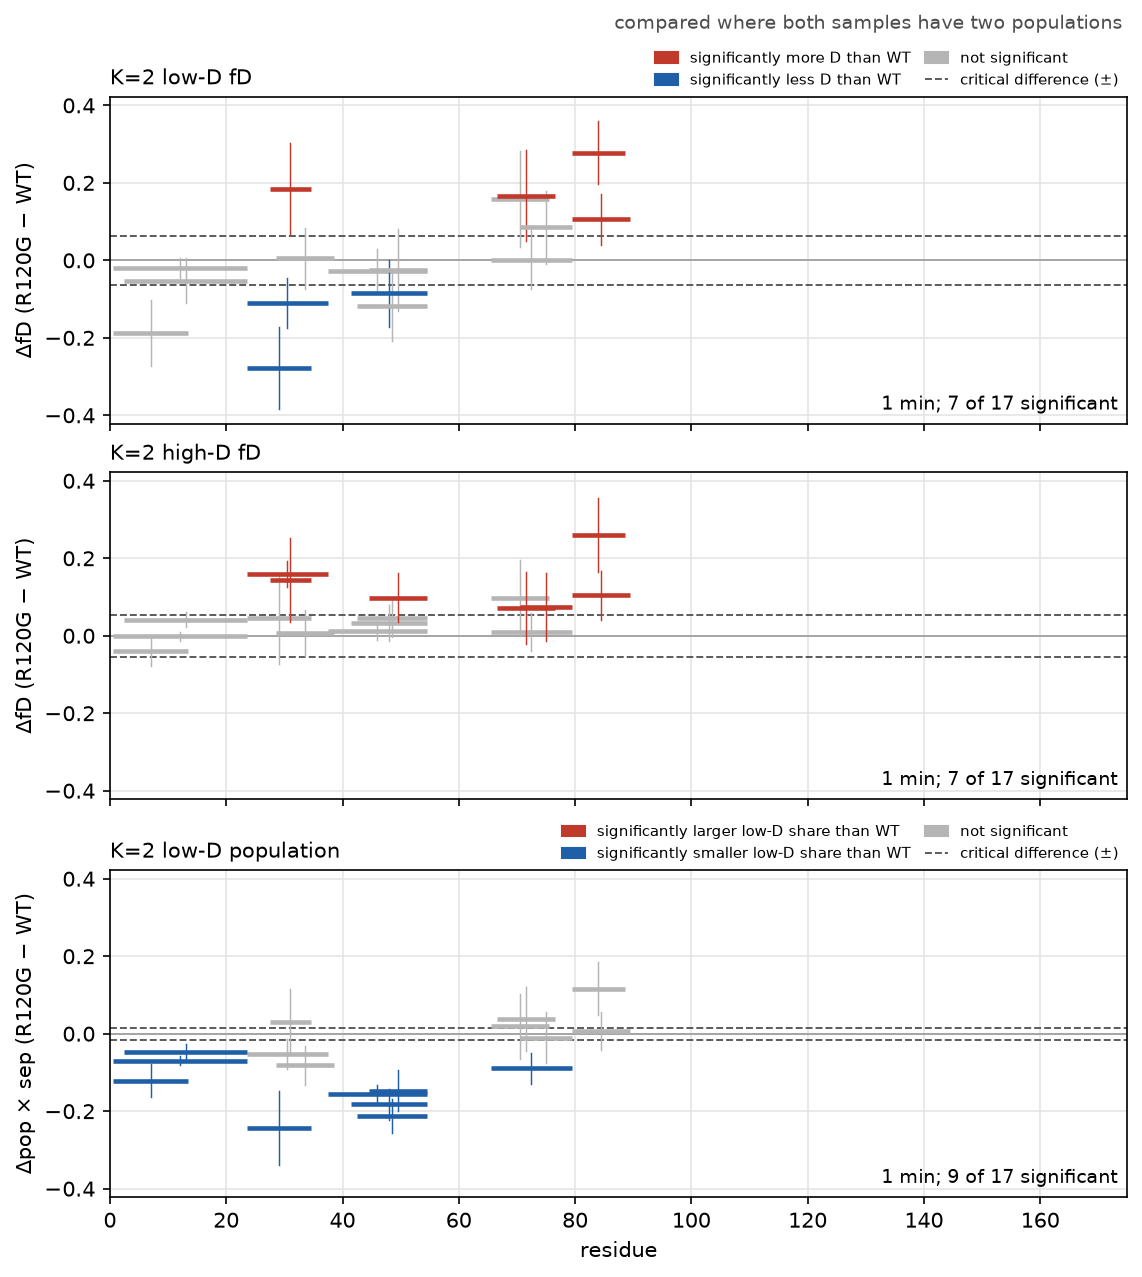
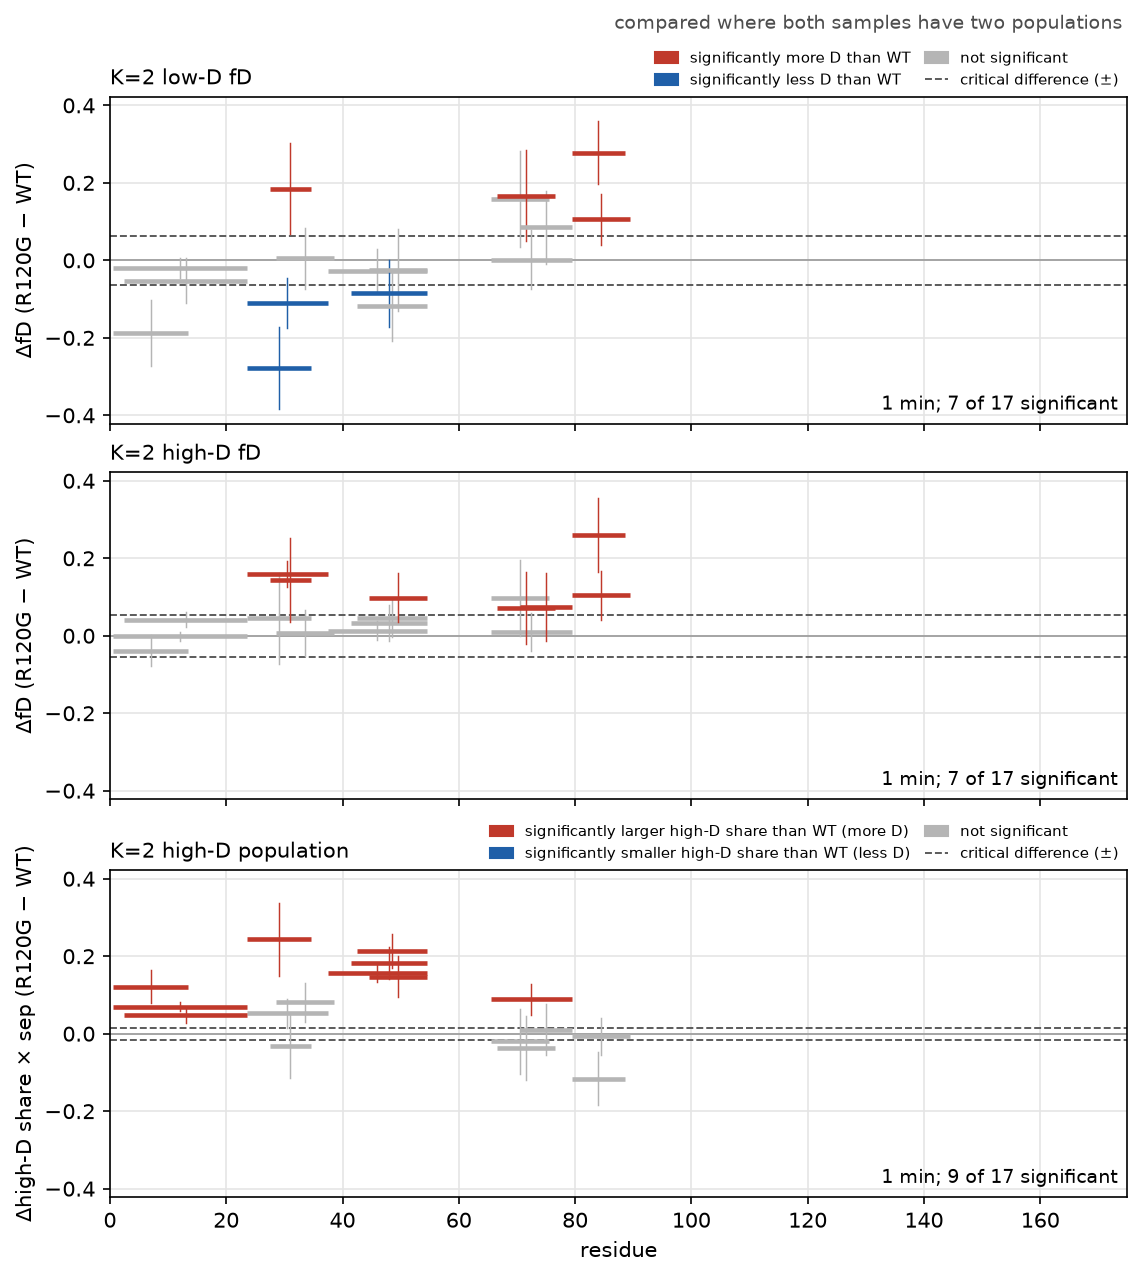
Woods K=2 population panel shows the high-D share (HISTORY 221)
Above zero (red) is now more deuterium on every panel, as on the residue maps;
compare_peptides.csv keeps the low-D comparison.

diff --git a/src/hxex/report/compare.py b/src/hxex/report/compare.py
@@ -77,15 +77,19 @@ def _corrected_differently(ax: Axes, xs, *, y: float = 0.995, note: bool = True)
     return len(xs)
 
 
-def _difference_key(quantity: str, reference: str) -> list:
+def _difference_key(quantity: str, reference: str, share: str = "low") -> list:
     """The legend of the Woods plot's colours and dashed lines: what red and blue mean for
-    ``quantity`` (sample minus ``reference``), grey, and the critical difference."""
+    ``quantity`` (sample minus ``reference``; for a population, the ``share`` compared), grey,
+    and the critical difference."""
     from matplotlib.patches import Patch
 
     if quantity == "fD":
         more = f"significantly more D than {reference}"
         less = f"significantly less D than {reference}"
-    else:  # the low-D population's share (times the separation when scaled: same sign)
+    elif share == "high":  # the high-D share (times the separation when scaled: same sign)
+        more = f"significantly larger high-D share than {reference} (more D)"
+        less = f"significantly smaller high-D share than {reference} (less D)"
+    else:  # the low-D population's share
         more = f"significantly larger low-D share than {reference}"
         less = f"significantly smaller low-D share than {reference}"
     return [Patch(color=INCREASE, label=more), Patch(color=DECREASE, label=less),
@@ -504,8 +508,9 @@ def plot_peptide_differences(
     span = float(finite.max()) if len(finite) else 0.2  # every delta NaN: a default range
     ax.set_ylim(-max(span, 0.2) * 1.1, max(span, 0.2) * 1.1)
     ax.set_xlabel("residue")
-    what = ("ΔfD" if comparison.quantity == "fD" else "Δpop × sep"
-            if comparison.scaled else "Δpopulation")
+    pop = "Δhigh-D share" if comparison.share == "high" else "Δpop"
+    what = ("ΔfD" if comparison.quantity == "fD" else f"{pop} × sep"
+            if comparison.scaled else pop if comparison.share == "high" else "Δpopulation")
     ax.set_ylabel(f"{what} ({sample} − {comparison.reference})")
     ax.grid(color="#e5e5e5", linewidth=0.8)
     n_sig = int(comparison.significant[rows].sum())
@@ -513,7 +518,8 @@ def plot_peptide_differences(
     ax.text(0.99, 0.03, f"{_when(time, time_scale)}; {n_sig} of {n_compared} significant",
             transform=ax.transAxes, ha="right", va="bottom", fontsize=9)
     if legend:
-        ax.legend(handles=_difference_key(comparison.quantity, comparison.reference),
+        ax.legend(handles=_difference_key(comparison.quantity, comparison.reference,
+                                          comparison.share),
                   loc="lower right", bbox_to_anchor=(1.0, 1.0), ncol=2, frameon=False,
                   fontsize=7, handlelength=1.6, columnspacing=1.0, borderaxespad=0.2)
     return fig

diff --git a/src/hxex/analysis/compare.py b/src/hxex/analysis/compare.py
@@ -101,7 +101,7 @@ def _columns(cls, rows: list[dict]) -> dict:
 
 
 _SCALAR_FIELDS = ("alpha", "delta_crit", "reference", "reference_run", "K", "rank", "quantity",
-                  "scaled")
+                  "scaled", "share")
 QUANTITIES = ("fD", "population")
 MATCHES = ("range", "sequence")
 
@@ -185,6 +185,7 @@ class PeptideComparison:
     reason: np.ndarray | None = None
     separation: np.ndarray | None = None
     scaled: bool = False
+    share: str = "low"  # a population comparison: of the low-D share, or the high-D one
 
     def __post_init__(self):  # built without the reference's sequences: the same as the sample's
         if self.threshold is None:
@@ -222,6 +223,19 @@ class PeptideComparison:
         return replace(self, delta=np.asarray(self.delta, dtype=float) * sep,
                        delta_se=np.asarray(self.delta_se, dtype=float) * sep,
                        threshold=np.full(len(self), self.delta_crit), scaled=True)
+
+    def as_high_share(self) -> PeptideComparison:
+        """A population comparison of the high-D population's share instead of the low-D one's
+        (one minus it), as the Woods plot draws it so that a difference above zero is more
+        deuterium in the sample, as on the fD panels (owner, 2026-11-02): ``value`` and
+        ``value_reference`` are one minus the low-D shares and ``delta`` changes sign; the
+        errors, the threshold and ``significant`` are the same. An fD comparison, or one
+        already of the high-D share, is returned as it is."""
+        if self.quantity != "population" or self.share == "high":
+            return self
+        return replace(self, value=1.0 - np.asarray(self.value, dtype=float),
+                       value_reference=1.0 - np.asarray(self.value_reference, dtype=float),
+                       delta=-np.asarray(self.delta, dtype=float), share="high")
 
     @property
     def corrected_differently(self) -> np.ndarray:

diff --git a/tests/test_analysis.py b/tests/test_analysis.py
@@ -1809,6 +1809,23 @@ def test_a_population_comparison_scaled_by_its_separation():
     assert "Δpop × sep" in bottom.get_ylabel()
     dashed = [ln for ln in bottom.get_lines() if ln.get_linestyle() == "--"]
     assert len(dashed) == 2  # one line each side, across the panel
+    # drawn as the high-D share: above zero (red) is more D in the sample, as on the fD panels
+    from hxex.report.compare import INCREASE
+
+    high = scaled.as_high_share()
+    assert high.share == "high" and high.as_high_share() is high and fd.as_high_share() is fd
+    np.testing.assert_allclose(high.delta, -scaled.delta)
+    np.testing.assert_allclose(high.value, 1 - scaled.value)
+    assert high.significant.tolist() == scaled.significant.tolist()
+    assert "share" not in high.columns()
+    fig = woods_figure([("K=1 fD", fd), ("K=2 high-D population", high)], "M", 60.0)
+    bottom = fig.axes[1]
+    assert "Δhigh-D share × sep" in bottom.get_ylabel()
+    texts = [x.get_text() for x in bottom.get_legend().get_texts()]
+    assert "significantly larger high-D share than WT (more D)" in texts
+    red = [ln for ln in bottom.get_lines() if str(ln.get_gid()).startswith("peptide:")
+           and ln.get_color() == INCREASE]
+    assert red and all(ln.get_ydata()[0] > 0 for ln in red)
 
 
 def test_delta_crit_is_robust_to_a_few_broken_replicates():

diff --git a/src/hxex/report/analysis.py b/src/hxex/report/analysis.py
@@ -520,10 +520,11 @@ def _peptide_outputs(results, config: AnalysisConfig, base, up, cancel=None):
         # the Woods plot: page 1, K=1 and where the number of populations differs; page 2,
         # the K=2 comparisons (made only where both have two populations), the population in
         # fD units: its difference times the separation, judged by the K=1 delta_crit
-        # (HISTORY 135, 137)
+        # (HISTORY 135, 137), drawn as the high-D share so that above zero (red) is more D,
+        # as on the fD panels (HISTORY 221)
         short = {"K=2 rank 1 (low D) fD": "K=2 low-D fD", "K=2 rank 2 (high D) fD":
-                 "K=2 high-D fD", "K=2 rank 1 (low D) population": "K=2 low-D population"}
-        k2_stack = [(short.get(title, title), c.scaled_by_separation())
+                 "K=2 high-D fD", "K=2 rank 1 (low D) population": "K=2 high-D population"}
+        k2_stack = [(short.get(title, title), c.scaled_by_separation().as_high_share())
                     for title, c in comparisons.items() if title != "K=1 fD"]
         for t in times:
             when_ = _time_label(t, scale)

diff --git a/docs/guide/outputs.md b/docs/guide/outputs.md
@@ -441,8 +441,9 @@ covers at its difference from the reference (sample minus reference), with its s
 a vertical line. A bar is coloured where the difference is significant (red: the sample is
 higher; blue: lower): Welch's t-test on the replicate spectra gives p below `alpha`, and the
 difference is larger than the critical difference, drawn as the dashed lines. The legend above
-the panel names the colours and the dashed lines; on a population panel red and blue mean a
-larger or smaller low-D share than the reference.
+the panel names the colours and the dashed lines. On every panel red means more deuterium in
+the sample and blue less, which is why the population panel shows the share of the high-D
+population: a larger high-D share is more deuterium.
 
 The plot comes in two figures. The first, `woods_<sample>_<time>`, has the average deuteration
 (K=1 fD, one population) and, below it, **Two Populations Selected**: a grey bar over each
@@ -458,15 +459,17 @@ have two populations in both samples: elsewhere one sample's second "population"
 tail of a single one, and comparing it with the other's second state would compare different
 things.
 
-The population panel does not show the change in the share of the low-D population directly,
-but that change multiplied by the peptide's separation: the difference in fD between its two
+The population panel shows the change in the share of the high-D population (the low-D
+share's change with its sign turned round, since the two shares add up to one), and not
+directly but multiplied by the peptide's separation: the difference in fD between its two
 populations (the mean of the two samples'). The product is the deuterium, as a fraction of the
 amides, that moved from one state to the other, so the panel is in the same units as the fD
 panels and has one critical difference, the K=1 one. This is the same test as comparing the
 change in share with the critical difference divided by the separation: a small change of share
 matters in a peptide whose two states are far apart, and little where they are close.
-`compare_peptides.csv` keeps the change in share itself (`delta`), with the `separation` and the
-threshold it was judged by (`delta_crit`, the K=1 critical difference divided by the
+`compare_peptides.csv` keeps the change in the low-D share itself (`delta`, the comparison
+`K=2 rank 1 (low D) population`: the opposite sign of the panel's), with the `separation` and
+the threshold it was judged by (`delta_crit`, the K=1 critical difference divided by the
 separation).
 
 **Reading the residue overlay.** `overlay_residues_<time>` draws each sample against the

diff --git a/docs/guide/tutorial-fits.md b/docs/guide/tutorial-fits.md
@@ -221,20 +221,20 @@ deuterated rows should show none; the yellow there marks the bright peptides of 
 Where a peptide has two populations in both samples, the two can be compared: where each
 population lies, and how much of each there is. The Woods plot of part 1 has a second figure
 for this, `woods_K2_R120G_1min.png`: the difference in the position of the low-D population
-(top), of the high-D population (middle), and in the share of the low-D population (bottom),
+(top), of the high-D population (middle), and in the share of the high-D population (bottom),
 multiplied by the distance between the two populations, so that it is in deuterium per amide
 like the panels above and judged against the same kind of dashed line
-([Reading the Woods plot](outputs.md#figures-from-hxex-analyse)). The legend of each panel
-names its colours. Here R120G has less of the low-D population than WT over most of the first
-80 residues, and some of the positions differ too: much the same two states, populated
+([Reading the Woods plot](outputs.md#figures-from-hxex-analyse)). On every panel red means more
+deuterium than WT and blue less. Here R120G has more of the high-D population than WT over most
+of the first 80 residues (red in the bottom panel), and some of the positions differ too: much the same two states, populated
 differently.
 
 ![The two populations of R120G against WT at 1 min](../images/tutorial_woods_k2.png)
 
 `residue_significance_K2.png` shows the same residue by residue, for every sample and time, in
-three sections: the shares, the low-D positions, and the high-D positions. Note its colours:
-in the shares section, red means a smaller low-D share than WT (so more deuterium), as in the
-residue map of part 1. Hatching marks residues where only one of the two samples has two
+three sections: the shares, the low-D positions, and the high-D positions. Its colours follow
+the same rule: in the shares section, red means a smaller low-D share than WT, so more
+deuterium, as in the residue map of part 1. Hatching marks residues where only one of the two samples has two
 populations.
 
 ![Two-population differences residue by residue](../images/tutorial_residues_k2.png)

diff --git a/docs/HISTORY.md b/docs/HISTORY.md
@@ -6086,3 +6086,14 @@ CSVs or mzML if wanted.
     the owner: the Woods K = 2 population panel colours a smaller low-D share blue, the
     residue_significance_K2 map red (each labelled truthfully). The check runs are kept outside
     the repository.
+
+221. **The Woods K = 2 population panel shows the high-D share (owner, 2026-11-02).** The panel
+    drew the low-D share's change (times the separation) and coloured it by its sign, so a
+    smaller low-D share in the sample, which is more deuterium, was blue, against the rule every
+    other panel and the residue maps follow (red more D, blue less) and against
+    residue_significance_K2, which colours the same finding red. The panel now shows the high-D
+    share's change (`PeptideComparison.as_high_share`: one minus the shares, the sign of `delta`
+    turned round; errors, threshold, and `significant` unchanged), titled "K=2 high-D
+    population", the axis `Δhigh-D share × sep`, the legend "larger / smaller high-D share
+    than WT (more D / less D)". `compare_peptides.csv` keeps the low-D comparison as it was
+    (outputs.md says the panel's sign is the opposite). tutorial_woods_k2.png redrawn.
